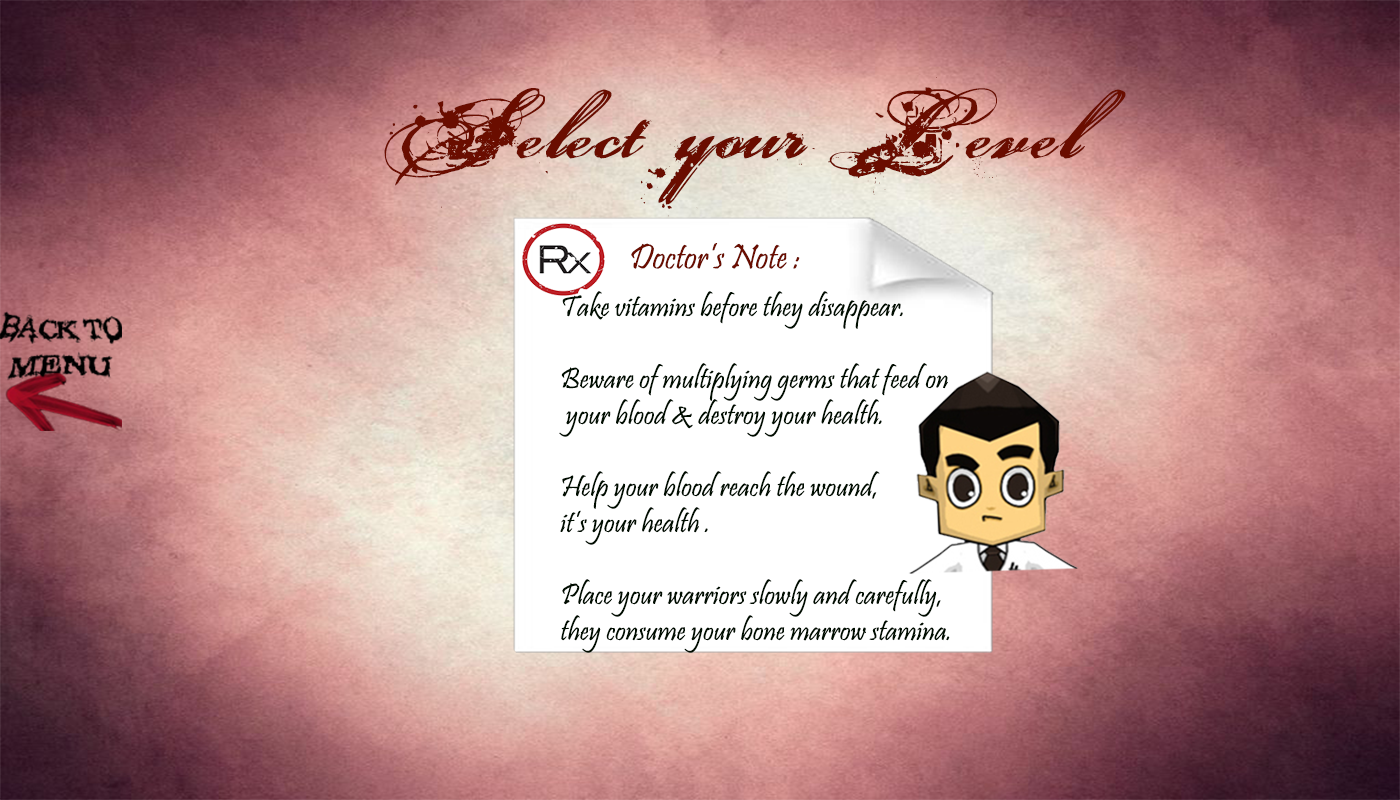
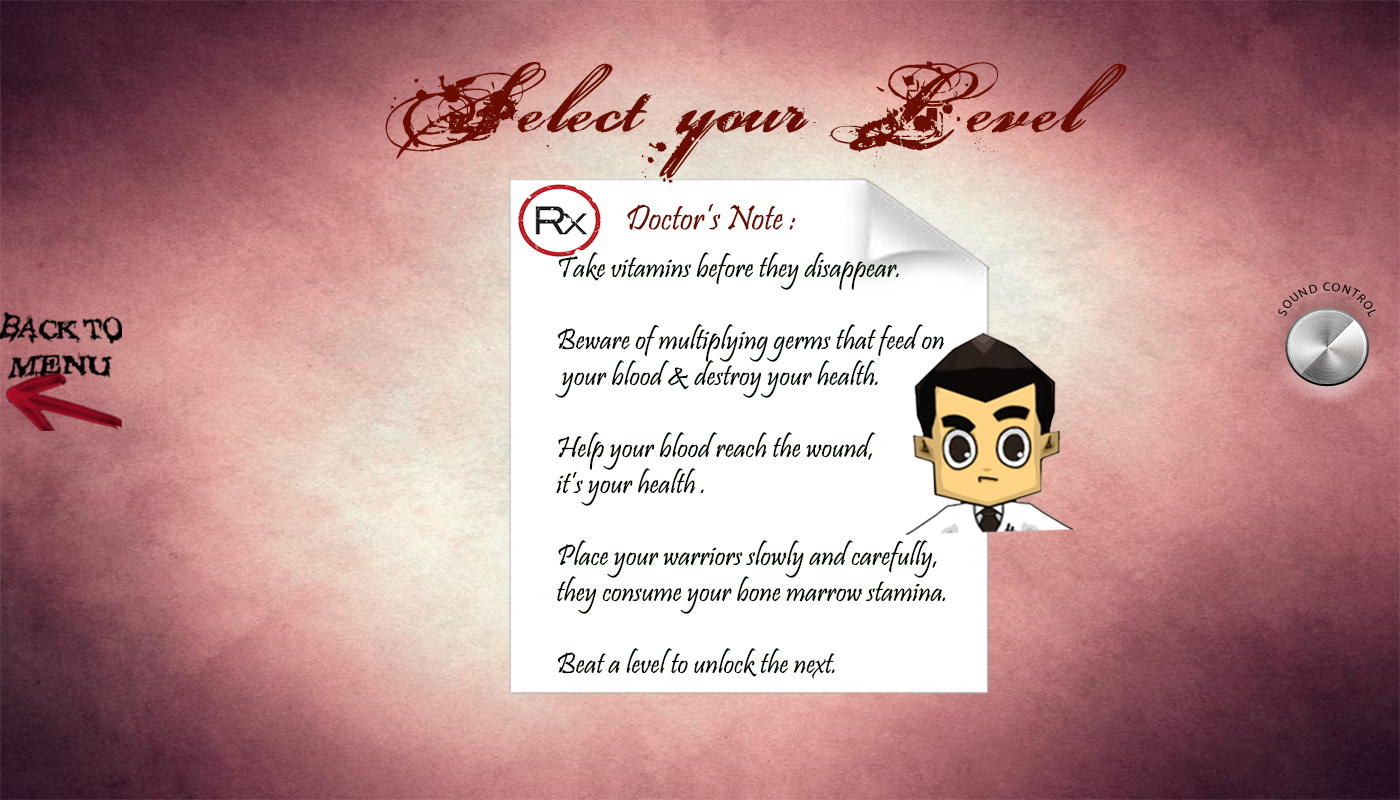
Deploy point 14

Changed region(s): [[0.2764, 0.0625, 0.7986, 0.875], [0.9214, 0.3438, 0.9829, 0.5]]

diff --git a/JS/game.js b/JS/game.js
@@ -325,6 +325,7 @@ GameWorld = new function () {
 	var inPause = false;
 	var inResume = false;
 	var inMenu = false;
+	var inSound = false;
     var mouse = { x: 0, y: 0 };
     var WBCs = [];
 	var RBCs = [];
@@ -355,6 +356,12 @@ GameWorld = new function () {
 	//Pause margins  
 	var pauseStartX = 5;
 	var pauseTop = hitAreaY_bottomLimit + 20;
+	
+	// Sound margins
+	soundStartX = world.width/1.086;
+	soundEndX = world.width/1.021; 
+	soundStartY = (world.height/2.58);
+	soundEndY = (world.height/2.05);
 	
 	// Menu margins
 	menuStartX = 0;
@@ -389,6 +396,8 @@ GameWorld = new function () {
 			pause_img = document.getElementById("pause_img");
 			levels_img = document.getElementById("levels");
 			menu_img = document.getElementById("menu");
+			off_img = document.getElementById("off");
+			on_img = document.getElementById("on");
 			
             // Set intervals
             setInterval(frame, 1000 / FRAMERATE);
@@ -431,6 +440,10 @@ GameWorld = new function () {
 			}
 		}
     }
+	
+	/* GameWorld: toggleSound
+		- Turn sound ON or OFF */
+	function toggleSound(){	document.getElementById('background_audio').muted = !document.getElementById('background_audio').muted;	}
 	
     /* GameWorld: togglePause
 		- Pause or resume current stage */
@@ -500,32 +513,42 @@ GameWorld = new function () {
 		- Render all HUD information on canvas */
     function renderHUD() {
 		// Up HUD
-		context.font = "Bold 20px sans-serif";
-		context.fillStyle = 'rgba(243,243,21,0.5)';
-		context.fillText("Bone Marrow", boneMarrowBarStart, hitAreaY_topLimit - 56);
-		if (blinkCount <= 0 || (blinkCount % 5) == 0){
-			context.fillStyle = 'rgba(2,2,1,1)';
-			context.strokeRect(boneMarrowBarStart, hitAreaY_topLimit - 50, stage.boneMarrowCapacity, hitAreaY_topLimit - 30);
-			context.fillStyle = 'rgba(240,240,210,0.4)';
-			context.fillRect(boneMarrowBarStart+1, hitAreaY_topLimit - 48, boneMarrowBarEnd-1, hitAreaY_topLimit - 33);
-		}
-		if (blinkCount > 0) blinkCount--;
-		context.font = "Bold 30px Calibri";
-        context.fillStyle = 'rgba(100,243,21,0.8)';
-		context.fillText("Stage " + stage.id, getTextPositionX("stage 1",2), hitAreaY_topLimit - 30);
-		context.fillText(stage.name, getTextPositionX(stage.name,2), hitAreaY_topLimit - 5);
+			// Bone Marrow Bar
+			context.font = "Bold 20px sans-serif";
+			context.fillStyle = 'rgba(243,243,21,0.5)';
+			context.fillText("Bone Marrow", boneMarrowBarStart, hitAreaY_topLimit - 56);
+			if (blinkCount <= 0 || (blinkCount % 5) == 0){
+				context.fillStyle = 'rgba(2,2,1,1)';
+				context.strokeRect(boneMarrowBarStart, hitAreaY_topLimit - 50, stage.boneMarrowCapacity, hitAreaY_topLimit - 30);
+				context.fillStyle = 'rgba(240,240,210,0.4)';
+				context.fillRect(boneMarrowBarStart+1, hitAreaY_topLimit - 48, boneMarrowBarEnd-1, hitAreaY_topLimit - 33);
+			}
+			if (blinkCount > 0) blinkCount--;
+			// Stage name
+			context.font = "Bold 30px Calibri";
+			context.fillStyle = 'rgba(100,243,21,0.8)';
+			context.fillText("Stage " + stage.id, getTextPositionX("stage 1",2), hitAreaY_topLimit - 30);
+			context.fillText(stage.name, getTextPositionX(stage.name,2), hitAreaY_topLimit - 5);
 		// Down HUD
-		context.drawImage(pause_img, pauseStartX, hitAreaY_bottomLimit + 20);
-		context.font = "Bold 80px Calibri";
-        context.fillStyle = 'rgba(10,10,210,0.8)';
-        context.fillText("HEALTH: " + player.energy + " %", world.width/6, hitAreaY_bottomLimit + 70);
-		context.font = "Bold 40px Calibri";
-		context.fillStyle = 'rgba(243,243,21,0.5)';
-		context.fillText("SCORE: " + player.score, 3*(canvas.width/4), hitAreaY_bottomLimit + 40);
-		context.fillText("ACCURACY: " + player.accuracy + "%", 
-			((3*(world.width/4))-(context.measureText("ACCURACY").width/4)), hitAreaY_bottomLimit + 75);
+			context.drawImage(pause_img, pauseStartX, hitAreaY_bottomLimit + 20);	// Pause img
+			// Health bar
+			context.font = "Bold 30px Calibri";
+			context.fillStyle = 'rgba(10,10,210,0.8)';
+			context.fillText("LOOSE", world.width/8, hitAreaY_bottomLimit + 30);
+			context.fillText("WIN", world.width/3.3, hitAreaY_bottomLimit + 30);
+			context.fillText(player.energy + " %", world.width/5, hitAreaY_bottomLimit + 60);
+			context.fillStyle = 'rgba(2,2,1,1)';
+			context.strokeRect(world.width/8, hitAreaY_bottomLimit + 40, 400, 23);
+			context.fillStyle = 'rgba(240,100,110,0.6)';
+			context.fillRect((world.width/8)+1, hitAreaY_bottomLimit + 41, (player.energy*4)-1, 21);
+			// Score and Accuracy
+			context.font = "Bold 40px Calibri";
+			context.fillStyle = 'rgba(243,243,21,0.5)';
+			context.fillText("SCORE: " + player.score, 3*(canvas.width/4), hitAreaY_bottomLimit + 40);
+			context.fillText("ACCURACY: " + player.accuracy + "%", 
+				((3*(world.width/4))-(context.measureText("ACCURACY").width/4)), hitAreaY_bottomLimit + 75);
 		// Highlights HUD
-		updateHighlights();
+			updateHighlights();
     }
 
 	/* GameWorld: renderWound
@@ -642,12 +665,10 @@ GameWorld = new function () {
 								xLocation = enemy.left();
 							}
 							collisionPercentage = ~~((collisionArea/coverArea)*100);
-							if(collisionPercentage < 10){
-								collisionPercentage = 10;
-							}
+							if(collisionPercentage < 10) collisionPercentage = 10;
 							createHighlight(collisionPercentage+"%","Bold 50px Calibri","rgba(0,0,0,",xLocation,yLocation,0,-2,.05); 
 							player.accuracy = ~~((player.accuracy + collisionPercentage)/2);
-							player.score += enemy.damage;
+							player.score += ~~((collisionArea/coverArea) * enemy.damage);
 							Enemies.splice(i, 1);
 							WBCs.splice(j, 1);
 							i--;
@@ -779,7 +800,7 @@ GameWorld = new function () {
 	function ShowScore(){
 		context.drawImage(background_img, 0, 0, world.width, world.height);
 		if (PLAYER_STATE == "PAUSE"){
-			context.drawImage(menu_img, menuStartX, menuStartY, menuEndX, menuEndY);
+			context.drawImage(menu_img, menuStartX, menuStartY, 100, 100);
 			context.font = "Bold 70px Calibri";
 			context.fillStyle = 'rgba(150,150,150,0.8)';
 			context.fillText("PAUSE", getTextPositionX("PAUSE",2), world.height/3);
@@ -803,11 +824,7 @@ GameWorld = new function () {
         var gameWorld = GameWorld.gameWorld;
 		var updatedX = event.clientX;
 		var updatedY = event.clientY;
-		
-		if(updatedX > gameWorld.width - gameWorld.toolMargin) {
-			updatedX = gameWorld.width - gameWorld.toolMargin;
-		}
-		
+
 		//is the mouse hovering the link? (before start the stage)
 		if (!playing){
 			if (PLAYER_STATE == "PAUSE"){ // on pause screen
@@ -823,12 +840,14 @@ GameWorld = new function () {
 				}
 				else
 					inLink=false;
+				inSound = (updatedX >= soundStartX && updatedX <= soundEndX && updatedY <= soundEndY && updatedY >= soundStartY);
 			}
 			inMenu = (updatedX >= menuStartX && updatedX <= menuEndX && updatedY <= menuEndY && updatedY >= menuStartY);
 		}
 		//check if the player is in hitArea
 		else
 		{
+			if (updatedX > gameWorld.width - gameWorld.toolMargin) updatedX = gameWorld.width - gameWorld.toolMargin;
 			if (updatedY < hitAreaY_bottomLimit && updatedY > hitAreaY_topLimit)
 				hitArea = true;
 			else{
@@ -846,7 +865,6 @@ GameWorld = new function () {
 		- Function to handle mouse click event */	
     function documentMouseDownHandler(event) {
         event.preventDefault();
-        //mouse.down = true;
 		if(playing){
 			if(hitArea){
 				if(!tryGetVitamin()) 
@@ -863,6 +881,9 @@ GameWorld = new function () {
 				if (inLink){
 					inLink = false;
 					startGame();
+				} else if (inSound){
+					toggleSound();
+					inSound = false;
 				}
 			}
 			if (inMenu){
@@ -972,6 +993,11 @@ GameWorld = new function () {
 		- Render all stages numbers on Select Level page */	
     function renderLevelSelection() {
 		context.drawImage(stageBackground_img, 0, 0, world.width, world.height);
+		// Sound Control
+			var soundStatus_img;
+			if (document.getElementById('background_audio').muted) soundStatus_img = off_img;
+			else soundStatus_img = on_img;
+			context.drawImage(soundStatus_img, world.width/1.08, world.height/2, 100, 50);
 		var gap = 0;
 		var newX= spaceBetweenLevels / 2;
 		linkStartX = spaceBetweenLevels /3;

diff --git a/game.html b/game.html
@@ -44,6 +44,8 @@
 			<img src="img/stage5.png" id="stage5" />
 			<img src="img/stage6.png" id="stage6" />
 			<img src="img/stage7.png" id="stage7" />
+			<img src="img/on.png" id="on" />
+			<img src="img/off.png" id="off" />
 			</div>
 			</canvas>
 		</div>

diff --git a/credits.html b/credits.html
@@ -15,7 +15,7 @@
 <script type="text/javascript" src="jquery-1.9.1.min.js"></script>
     <script type="text/javascript">
 	  $(function() {
-	  
+  
 		//cache the ticker
 		var ticker = $("#ticker");
 		  
